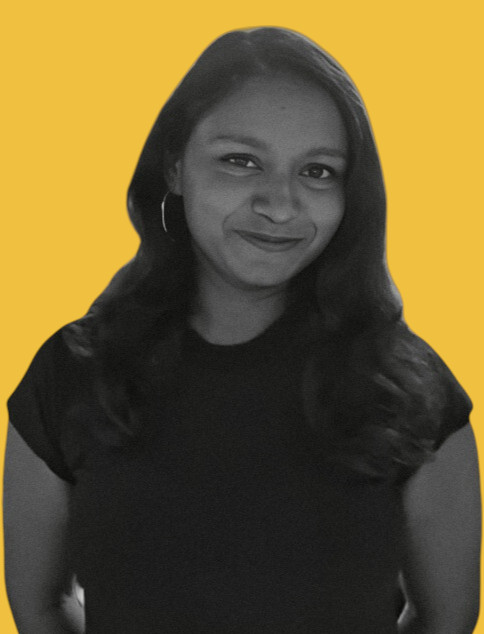
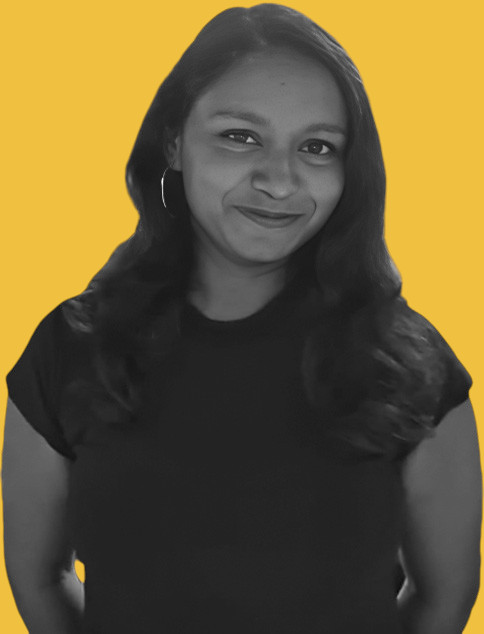
newpics

diff --git a/src/components/Team/Team.css b/src/components/Team/Team.css
@@ -113,7 +113,7 @@
   border: 1px solid rgba(255, 255, 255, 0.05);
   box-shadow: 0 20px 40px rgba(0, 0, 0, 0.5);
   cursor: pointer;
-  transition: border-color 0.4s ease, box-shadow 0.4s ease;
+  transition: transform 0.4s cubic-bezier(0.16, 1, 0.3, 1), border-color 0.4s ease, box-shadow 0.4s ease;
 }
 
 .character-poster.in-view {
@@ -126,6 +126,7 @@
 }
 
 .character-poster:hover {
+  transform: translateY(-8px) scale(1.02);
   border-color: rgba(240, 192, 64, 0.3);
   box-shadow: 0 30px 60px rgba(240, 192, 64, 0.1), 0 10px 20px rgba(0, 0, 0, 0.8);
 }
@@ -139,27 +140,23 @@
 
 .poster-img {
   --base-scale: 1;
-  --hover-scale: 1.05;
   width: 100%;
   height: 100%;
   object-fit: cover;
   object-position: center top;
   filter: grayscale(1) brightness(0.6) contrast(1.2);
   transform: scale(var(--base-scale));
-  transition: filter 0.6s cubic-bezier(0.16, 1, 0.3, 1), transform 0.6s cubic-bezier(0.16, 1, 0.3, 1);
+  transition: filter 0.6s cubic-bezier(0.16, 1, 0.3, 1);
 }
 
 .character-poster:hover .poster-img {
   filter: grayscale(0) brightness(1) contrast(1.05);
-  transform: scale(var(--hover-scale));
 }
 
 .img-vidya {
-  --base-scale: 1.3;
-  --hover-scale: 1.35;
+  --base-scale: 1;
   object-position: center 30%;
 }
-
 
 /* Cinematic Vignette */
 .poster-vignette {
